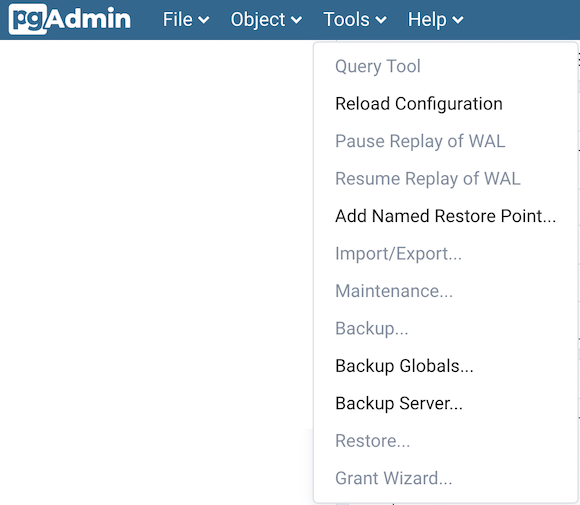
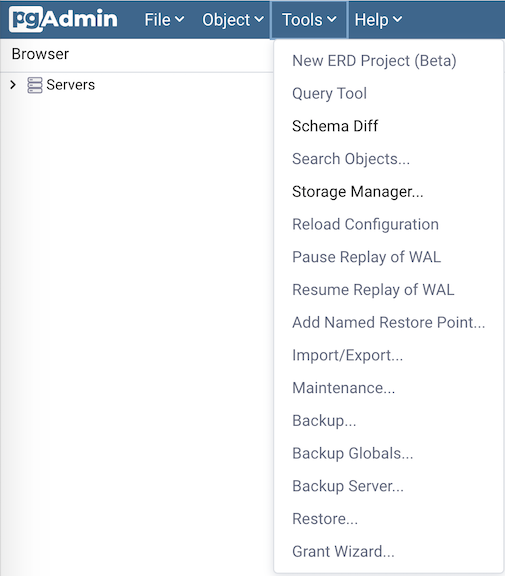
Documentation of Quick Search support. Fixes #6196

diff --git a/docs/en_US/menu_bar.rst b/docs/en_US/menu_bar.rst
@@ -121,6 +121,10 @@ Use the *Tools* menu to access the following options (in alphabetical order):
 +---------------------------+-------------------------------------------------------------------------------------------------------------------------------------------+
 | *New ERD Project*         | Click to open the :ref:`ERD Tool <erd_tool>` and start designing your database.                                                           |
 +---------------------------+-------------------------------------------------------------------------------------------------------------------------------------------+
+| *Schema Diff*             | Click to open the :ref:`Schema Diff <schema_diff_feature>` and start comparing two database or two schema.                                |
++---------------------------+-------------------------------------------------------------------------------------------------------------------------------------------+
+| *Search Objects...*       | Click to open the :ref:`Search Objects... <search_objects>` and start searching any kind of objects in a database.                        |
++---------------------------+-------------------------------------------------------------------------------------------------------------------------------------------+
 
 The Help Menu
 *************
@@ -135,6 +139,12 @@ information about the pgAdmin installation (in alphabetical order):
 +----------------------+-----------------------------------------------------------------------------------------------------------------------------------------+
 | Option               | Action                                                                                                                                  |
 +======================+=========================================================================================================================================+
+| *Quick Search*       | Type your keywords in the Quick Search field. Typing at least three characters will display all the matching possibilities under Menu   |
+|                      | items and the relevant documents under Help articles. Click on the options under Menu items to perform action of particular             |
+|                      | functionality or object. Click on any of the Help articles to open the help of that topic with highlighted text in a separate window.   |
+|                      |                                                                                                                                         |
+|                      | **Note**:- If any of the option under Menu items is disabled, then it will provide information via info icon.                           |
++----------------------+-----------------------------------------------------------------------------------------------------------------------------------------+
 | *About pgAdmin 4*    | Click to open a window where you will find information about pgAdmin; this includes the current version and the current user.           |
 +----------------------+-----------------------------------------------------------------------------------------------------------------------------------------+
 | *Online Help*        | Click to open documentation support for using pgAdmin utilities, tools and dialogs.                                                     |

diff --git a/docs/en_US/release_notes_5_0.rst b/docs/en_US/release_notes_5_0.rst
@@ -19,6 +19,7 @@ Housekeeping
 ************
 
 | `Issue #5017 <https://redmine.postgresql.org/issues/5017>`_ -  Use cheroot as the default production server for pgAdmin4.
+| `Issue #6196 <https://redmine.postgresql.org/issues/6196>`_ -  Documentation of Quick Search support.
 | `Issue #6207 <https://redmine.postgresql.org/issues/6207>`_ -  Updated the JS dependencies to the latest.
 
 Bug fixes
